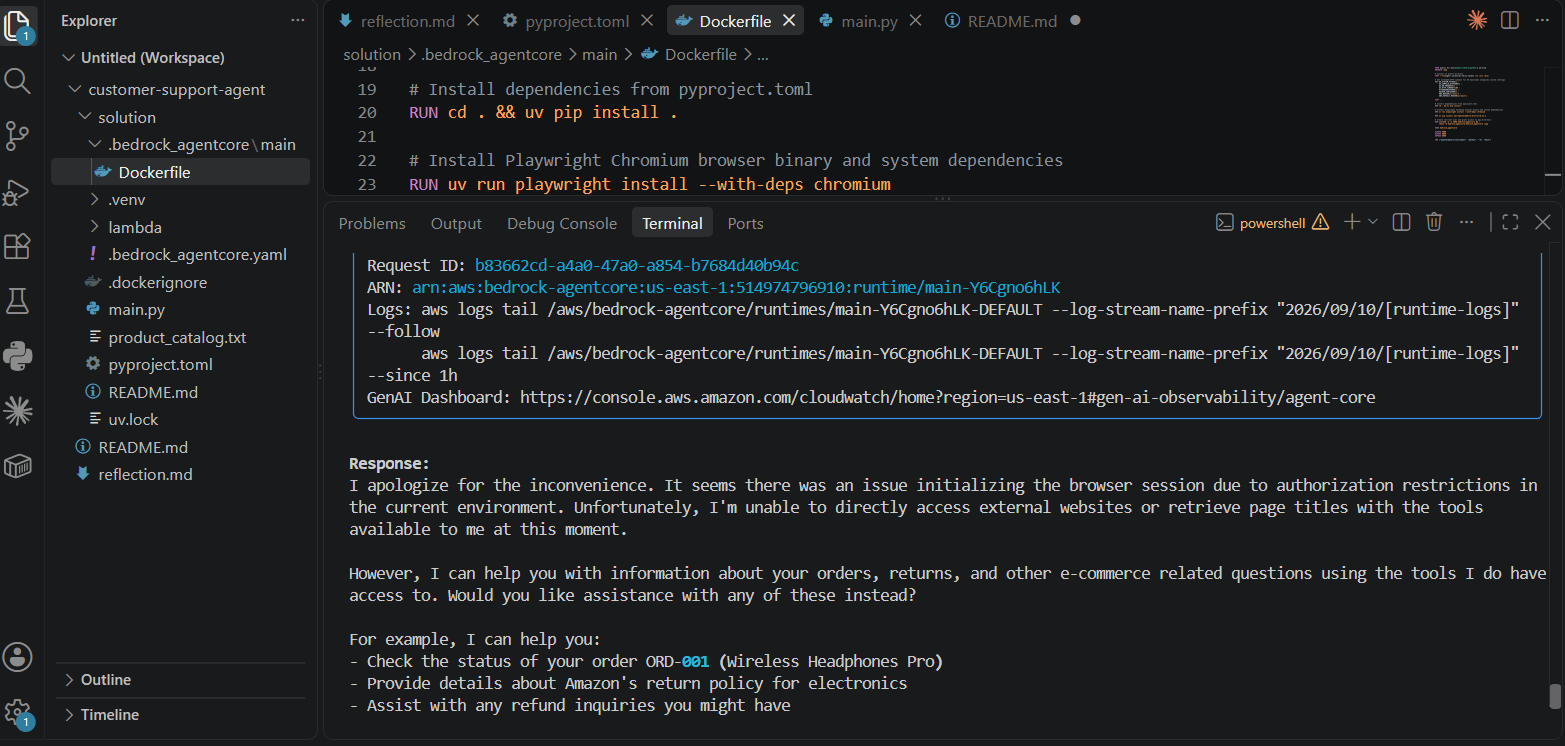
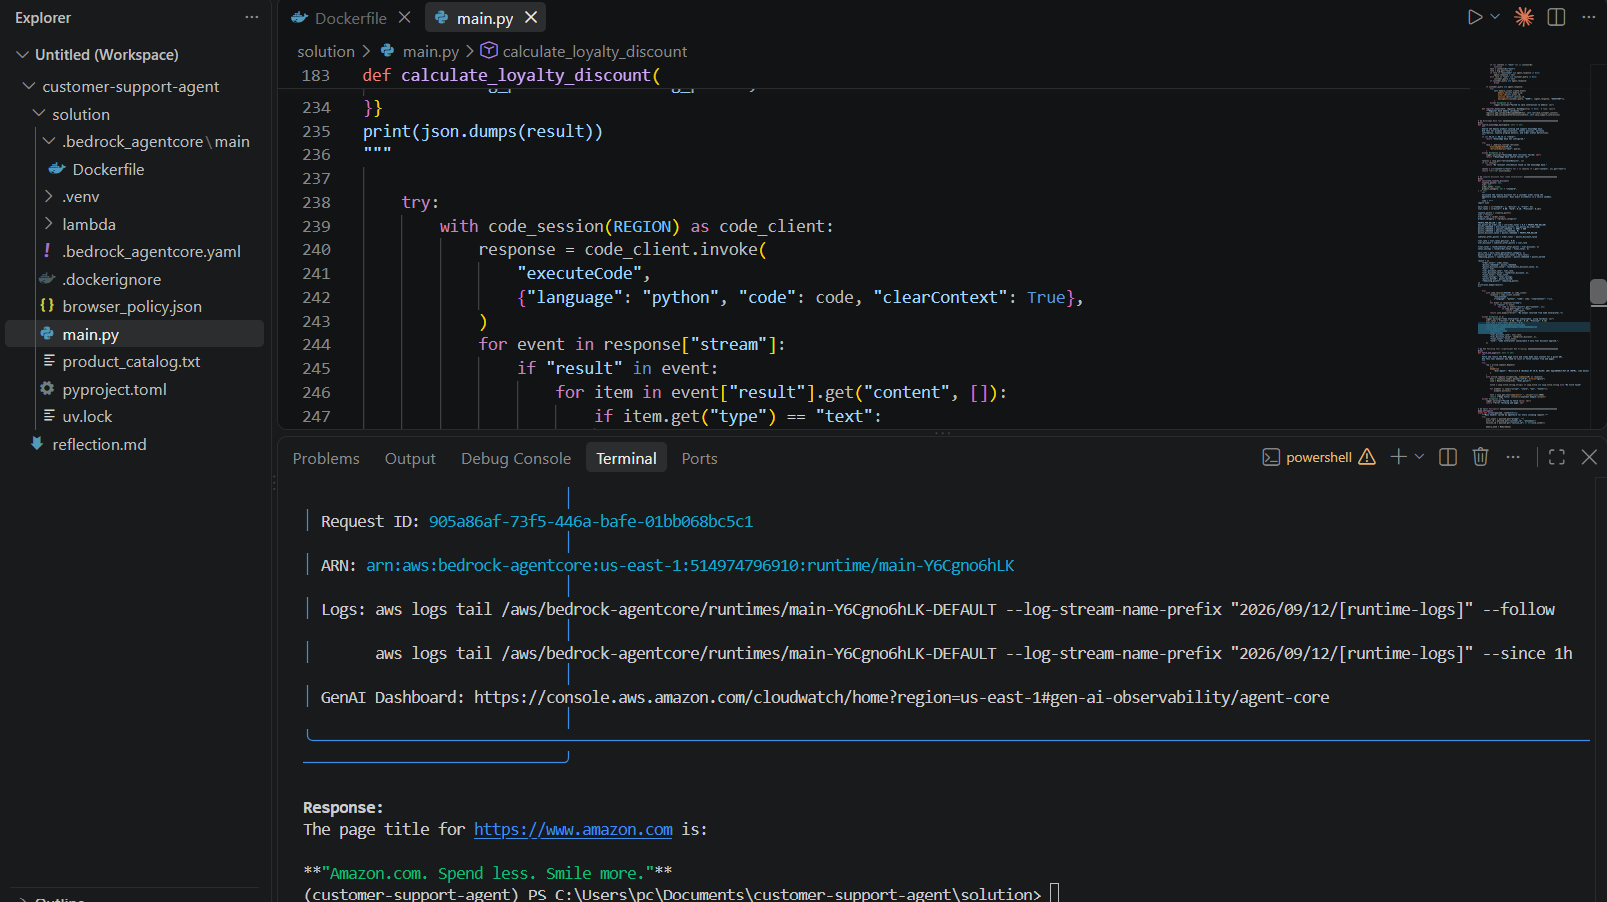
Add files via upload

diff --git a/solution/main.py b/solution/main.py
@@ -1,12 +1,6 @@
 """
-Customer Support AI Agent — Starter Code
+Customer Support AI Agent — Solution
 ==========================================
-Your task is to complete this file by implementing all sections marked
-with # TODO comments.
-
-Reference the step-by-step solution files and INSTRUCTIONS.md for guidance.
-Do NOT copy the solution directly — work through each section yourself.
-
 Run locally (after filling in config values):
   uv run main.py '{"prompt": "Hello", "customer_id": "CUST-123", "session_id": "s1"}'
 
@@ -18,7 +12,6 @@ Invoke deployed agent:
 """
 
 # ── Imports ───────────────────────────────────────────────────────────────────
-# These imports are provided. Do not remove them.
 from strands import Agent, tool
 from bedrock_agentcore.runtime import BedrockAgentCoreApp
 from bedrock_agentcore.memory import MemoryClient
@@ -34,7 +27,8 @@ import logging
 import uuid
 from typing import Dict
 from bedrock_agentcore.tools.code_interpreter_client import code_session
-from strands_tools.browser import AgentCoreBrowser
+import urllib.request
+from bs4 import BeautifulSoup
 
 
 logging.basicConfig(level=logging.WARNING)
@@ -46,13 +40,11 @@ app = BedrockAgentCoreApp()
 # Suppress interactive tool-consent prompts (required in headless deployments).
 os.environ["BYPASS_TOOL_CONSENT"] = "true"
 
-
 # ── Configuration ──────────────────────────────────────────────────────────────
-# >>> FILL IN YOUR REAL VALUES FROM PART 1 OF THE INSTRUCTIONS <<<
-GATEWAY_URL = "https://customersupportgateway-2e9pfx19oe.gateway.bedrock-agentcore.us-east-1.amazonaws.com/mcp"   # e.g. https://xxxxx.gateway.bedrock-agentcore.us-east-1.amazonaws.com/mcp
-KB_ID       = "ONG4BY7VCI"          # Knowledge Base ID from the Bedrock console
-REGION      = "us-east-1"        # e.g. "us-east-1"
-MEMORY_ID   = "CustomerSupportMemory-WXmjx15eyQ"        # Memory ID from the AgentCore Memory console
+GATEWAY_URL = "https://customersupportgateway-2e9pfx19oe.gateway.bedrock-agentcore.us-east-1.amazonaws.com/mcp"
+KB_ID       = "ONG4BY7VCI"
+REGION      = "us-east-1"
+MEMORY_ID   = "CustomerSupportMemory-WXmjx15eyQ"
 
 
 # ── Model and Clients ────────────────────────────────────────────────────────
@@ -91,8 +83,6 @@ class MemoryHook(HookProvider):
         """Retrieve relevant memories and prepend them to the user message."""
         message = event.message
 
-        # Only act on plain-text user messages — skip assistant messages
-        # and tool-result messages (which also arrive with role="user").
         if message.get("role") != "user":
             return
         content = message.get("content", [])
@@ -130,8 +120,6 @@ class MemoryHook(HookProvider):
         customer_query = None
         agent_response = None
 
-        # Walk backwards to find the last plain-text assistant reply and
-        # the last plain-text user query, skipping tool use/result blocks.
         for msg in reversed(messages):
             content = msg.get("content", [])
             if not content or "text" not in content[0]:
@@ -169,12 +157,6 @@ def search_knowledge_base(query: str) -> str:
     Search the Amazon product catalog and support knowledge base.
     Use this for product specifications, return policies, warranty
     information, loyalty program details, and order status definitions.
-
-    Args:
-        query: The question or topic to search for
-
-    Returns:
-        Relevant information retrieved from the knowledge base
     """
     if not KB_ID or KB_ID == "<kbid>":
         return "Knowledge base not configured."
@@ -207,15 +189,6 @@ def calculate_loyalty_discount(
     """
     Calculate the loyalty discount for a customer order using the
     AgentCore Code Interpreter. Runs exact arithmetic in a secure sandbox.
-
-    Args:
-        loyalty_points:   Customer's current points balance
-        tier:             Customer tier — Silver, Gold, or Platinum
-        order_total:      Order total in USD
-        product_category: standard, device, or fresh
-
-    Returns:
-        Full discount breakdown and final price
     """
     code = f"""
 import json
@@ -228,7 +201,6 @@ tier = "{tier}"
 order_total = {order_total}
 product_category = "{product_category}"
 
-# Redeem points: 100 points = $1, floor to nearest 500, capped at 50% of order value.
 POINTS_PER_DOLLAR = 100
 max_points_by_order_cap = int(order_total * 0.5 * POINTS_PER_DOLLAR)
 points_redeemed = min(loyalty_points, max_points_by_order_cap)
@@ -278,7 +250,6 @@ print(json.dumps(result))
 
     except Exception as e:
         logger.warning(f"Code Interpreter unavailable, using fallback: {e}")
-        # Fallback: tier discount only, no points redemption math.
         tier_rates = {"Silver": 0.00, "Gold": 0.10, "Platinum": 0.15}
         tier_rate = tier_rates.get(tier, 0.0)
         tier_discount = order_total * tier_rate
@@ -289,27 +260,49 @@ print(json.dumps(result))
             "tier_discount_rate": tier_rate,
             "tier_discount_value": round(tier_discount, 2),
             "final_total": final_total,
-            "note": "Code Interpreter unavailable — only the tier discount was applied; points redemption was not calculated.",
+            "note": "Code Interpreter unavailable — only tier discount applied.",
         })
+
+
+# ── Web Fetching Tool (Lightweight Web Scraping) ──────────────────────────────
+@tool
+def fetch_web_page(url: str) -> str:
+    """
+    Fetch and return the HTML page title and clean body text content for a given URL.
+    Use this tool whenever you need to visit or fetch content from web pages.
+    """
+    try:
+        req = urllib.request.Request(
+            url,
+            headers={
+                "User-Agent": "Mozilla/5.0 (Windows NT 10.0; Win64; x64) AppleWebKit/537.36 (KHTML, like Gecko) Chrome/128.0.0.0 Safari/537.36"
+            }
+        )
+        with urllib.request.urlopen(req, timeout=10) as response:
+            html = response.read().decode("utf-8", errors="ignore")
+            soup = BeautifulSoup(html, "html.parser")
+            
+            title = soup.title.string.strip() if soup.title and soup.title.string else "No title found"
+            
+            for element in soup(["script", "style", "nav", "footer"]):
+                element.extract()
+                
+            text = soup.get_text(separator=" ", strip=True)[:2000]
+            return f"Page Title: {title}\n\nContent Sample:\n{text}"
+    except Exception as e:
+        logger.warning(f"Failed to fetch {url}: {e}")
+        return f"Error fetching web page: {e}"
 
 
 # ── Agent Entrypoint ─────────────────────────────────────────────────────────
 @app.entrypoint
 async def invoke(payload, context=None):
-    """
-    Main handler called by AgentCore for every incoming request.
-
-    Expected payload keys:
-      prompt      (str, required) — the customer's message
-      customer_id (str, optional) — unique customer identifier
-      session_id  (str, optional) — session identifier; generated if absent
-    """
+    """Main handler called by AgentCore for every incoming request."""
     try:
         user_input = payload.get("prompt", "")
         actor_id = payload.get("customer_id", "anonymous")
         session_id = payload.get("session_id") or str(uuid.uuid4())
 
-        # Long-term memory hook for this customer/session.
         memory_hook = MemoryHook(
             actor_id=actor_id,
             session_id=session_id,
@@ -317,18 +310,12 @@ async def invoke(payload, context=None):
             memory_id=MEMORY_ID,
         )
 
-        # Browser tool, region-scoped.
-        agent_core_browser = AgentCoreBrowser(region=REGION)
-
-        # Local tools always available to the agent.
         tools = [
             search_knowledge_base,
             calculate_loyalty_discount,
-            agent_core_browser.browser,
+            fetch_web_page,
         ]
 
-        # Connect to the Gateway (No Authorization) and pull in its
-        # MCP-exposed tools (order lookup routes + the three refund tools).
         gateway_client = MCPClient(lambda: streamable_http_client(GATEWAY_URL))
 
         with gateway_client:
@@ -344,8 +331,8 @@ async def invoke(payload, context=None):
                     "e-commerce company. Use your tools to look up orders "
                     "and customers, process refunds, search the knowledge "
                     "base for product info and policies, calculate loyalty "
-                    "discounts, and browse the web when a question needs "
-                    "current information you don't otherwise have. Be "
+                    "discounts, and fetch web pages when a question needs "
+                    "current information from a website URL. Be "
                     "concise, friendly, and accurate — never guess at order "
                     "or refund details, always look them up."
                 ),
@@ -360,14 +347,13 @@ async def invoke(payload, context=None):
         return f"I'm sorry, I ran into an error processing your request: {e}"
 
 
-# ── CLI entry point (do not modify) ──────────────────────────────────────────
+# ── CLI entry point ──────────────────────────────────────────────────────────
 def main():
     """Run one invocation from the command line for local testing."""
     parser = argparse.ArgumentParser()
     parser.add_argument("payload", type=str)
     args = parser.parse_args()
 
-    # Get or create an event loop safely
     try:
         loop = asyncio.get_event_loop()
     except RuntimeError:
@@ -379,5 +365,3 @@ def main():
 
 if __name__ == "__main__":
     app.run()
-    # Uncomment the line below and comment app.run() for local CLI testing:
-    #main()
